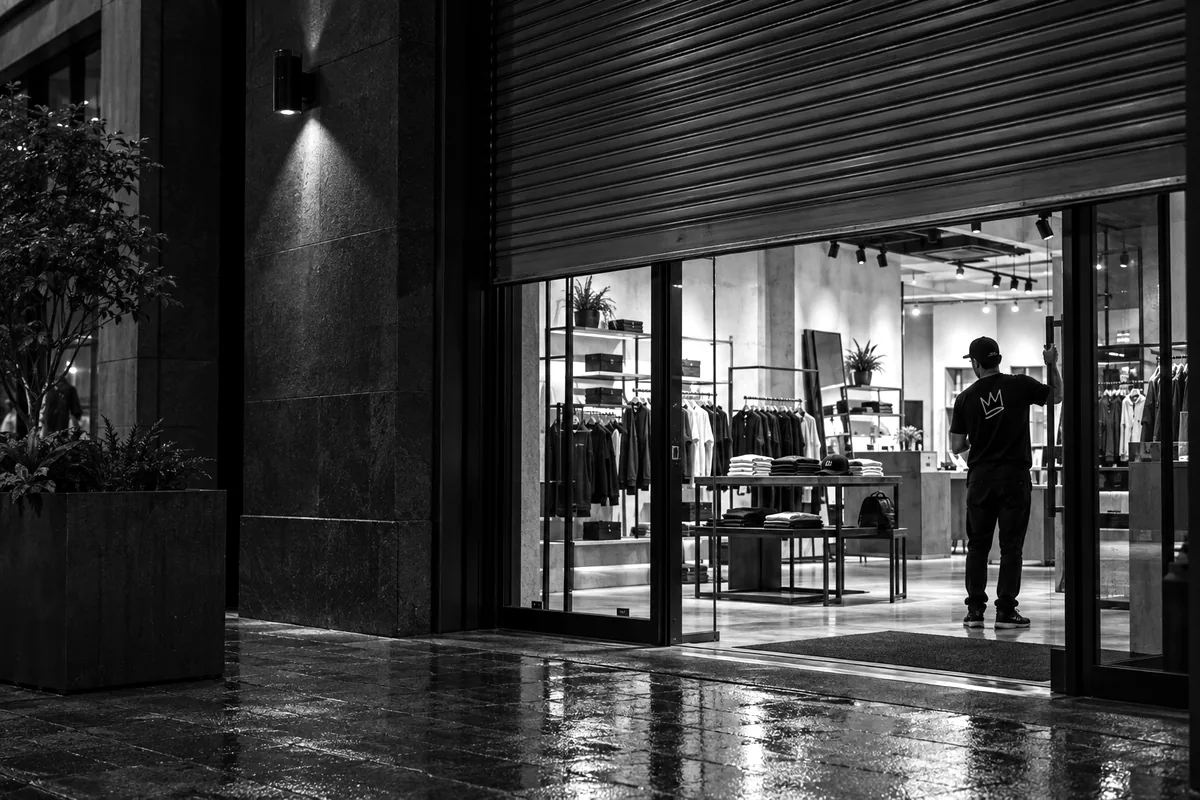
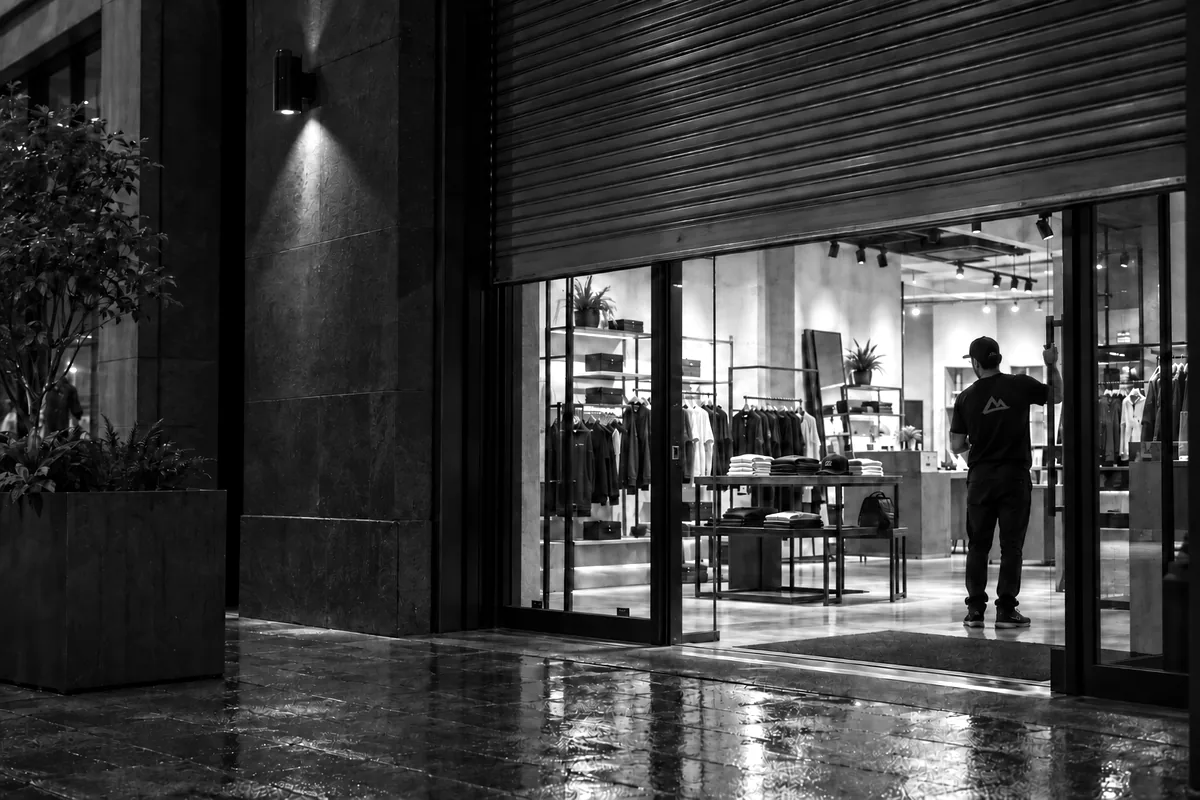
Regenerate the How We Work photo from the re-uploaded SKALA_03
Claude-Session: https://claude.ai/code/session_01K8y8hTczq6HyHoN1wcVFm8

diff --git a/index.html b/index.html
@@ -326,7 +326,7 @@
             <p class="section-intro">We work inside the business, not through Teams or from a deck. We find what’s missing, build it, and help your team put it to work. Then we make sure it sticks and runs without us. That’s the job.</p>
           </div>
           <figure class="figure figure--wide reveal">
-            <img src="assets/images/approach-before-doors-open.webp?v=3ebc3bb9" width="1200" height="800" alt="A storefront at first light with the security shutter half raised and an operator inside setting up" loading="lazy">
+            <img src="assets/images/approach-before-doors-open.webp?v=827d1dac" width="1200" height="800" alt="A storefront at first light with the security shutter half raised and an operator inside setting up" loading="lazy">
           </figure>
         </div>
       </div>
